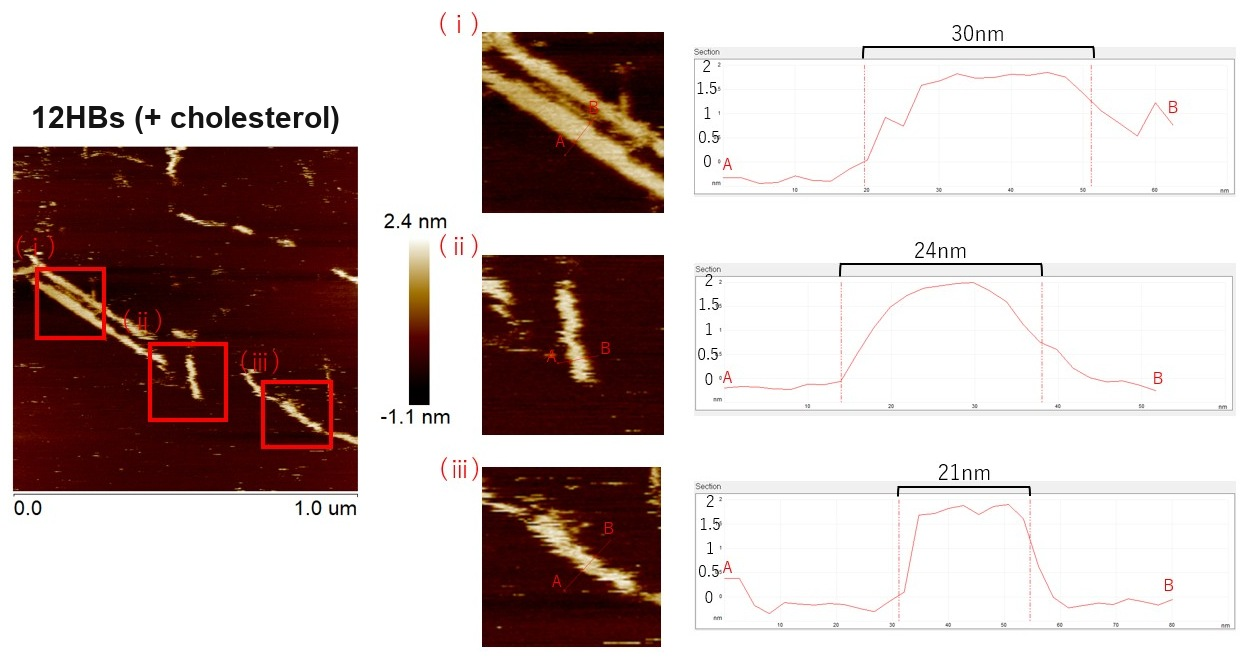
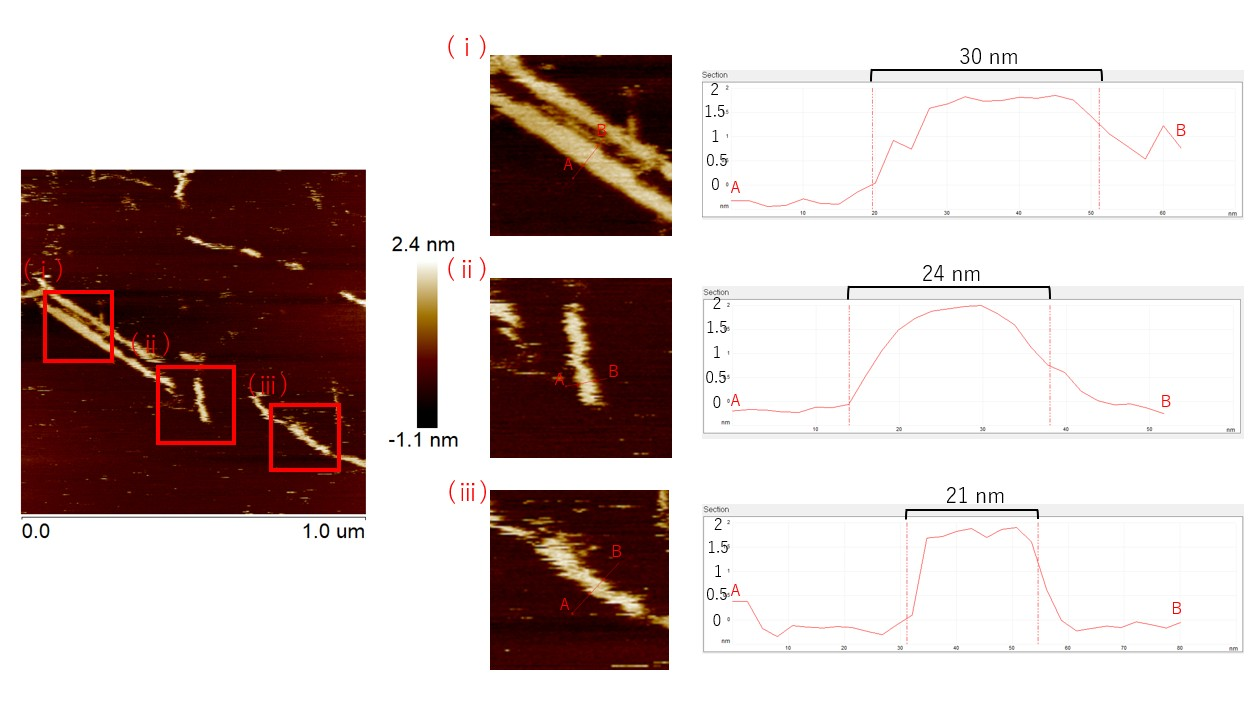
い

diff --git a/experiment.html b/experiment.html
@@ -381,22 +381,22 @@
                             </figure>
                             <div class="exp-flow-arrow exp-flow-arrow-down" aria-hidden="true"><svg viewBox="0 0 48 24" width="48" height="24"><path d="M2 12h37" fill="none" stroke="currentColor" stroke-width="3" stroke-linecap="round"/><path d="M33 4l11 8-11 8" fill="none" stroke="currentColor" stroke-width="3" stroke-linecap="round" stroke-linejoin="round"/></svg></div>
                             <figure id="fig-14" class="mb-0 exp-figure exp-afm-set">
-                                <img src="img/EXPERIMENT/afm_12hb_chol_profile.jpg?v=2" alt="AFM height images of cholesterol-modified 12-Helix DNA Bundles: overview, magnified views of regions (i)–(iii), and height profiles along A to B with measured widths"
+                                <img src="img/EXPERIMENT/afm_12hb_chol_profile.jpg?v=3" alt="AFM height images of cholesterol-modified 12-Helix DNA Bundles: overview, magnified views of regions (i)–(iii), and height profiles along A to B with measured widths"
                                     class="img-fluid w-100 border exp-afm-panel" loading="lazy" decoding="async">
                                 <figcaption class="text-secondary mt-3"><strong>Figure 14.</strong> AFM images of 12HBs (+ cholesterol). Left: overview; middle: magnified views of regions (i)–(iii); right: height profiles along A&rarr;B with the measured widths.</figcaption>
                             </figure>
                             <figure id="fig-15" class="mb-0 exp-figure exp-afm-set">
-                                <img src="img/EXPERIMENT/afm_12hb_nochol_profile.jpg?v=2" alt="AFM height images of unmodified 12-Helix DNA Bundles: overview, magnified views of regions (i)–(iii), and height profiles along A to B with measured widths"
+                                <img src="img/EXPERIMENT/afm_12hb_nochol_profile.jpg?v=3" alt="AFM height images of unmodified 12-Helix DNA Bundles: overview, magnified views of regions (i)–(iii), and height profiles along A to B with measured widths"
                                     class="img-fluid w-100 border exp-afm-panel" loading="lazy" decoding="async">
                                 <figcaption class="text-secondary mt-3"><strong>Figure 15.</strong> AFM images of 12HBs (− cholesterol). Left: overview; middle: magnified views of regions (i)–(iii); right: height profiles along A&rarr;B with the measured widths.</figcaption>
                             </figure>
                             <figure id="fig-16" class="mb-0 exp-figure exp-afm-set">
-                                <img src="img/EXPERIMENT/afm_13hb_chol_profile.jpg?v=2" alt="AFM height images of cholesterol-modified 13-Helix DNA Bundles: overview, magnified views of regions (i)–(iii), and height profiles along A to B with measured widths"
+                                <img src="img/EXPERIMENT/afm_13hb_chol_profile.jpg?v=3" alt="AFM height images of cholesterol-modified 13-Helix DNA Bundles: overview, magnified views of regions (i)–(iii), and height profiles along A to B with measured widths"
                                     class="img-fluid w-100 border exp-afm-panel" loading="lazy" decoding="async">
                                 <figcaption class="text-secondary mt-3"><strong>Figure 16.</strong> AFM images of 13HBs (+ cholesterol). Left: overview; middle: magnified views of regions (i)–(iii); right: height profiles along A&rarr;B with the measured widths.</figcaption>
                             </figure>
                             <figure id="fig-17" class="mb-0 exp-figure exp-afm-set">
-                                <img src="img/EXPERIMENT/afm_13hb_nochol_profile.jpg?v=2" alt="AFM height images of unmodified 13-Helix DNA Bundles: overview, magnified views of regions (i)–(iii), and height profiles along A to B with measured widths"
+                                <img src="img/EXPERIMENT/afm_13hb_nochol_profile.jpg?v=3" alt="AFM height images of unmodified 13-Helix DNA Bundles: overview, magnified views of regions (i)–(iii), and height profiles along A to B with measured widths"
                                     class="img-fluid w-100 border exp-afm-panel" loading="lazy" decoding="async">
                                 <figcaption class="text-secondary mt-3"><strong>Figure 17.</strong> AFM images of 13HBs (− cholesterol). Left: overview; middle: magnified views of regions (i)–(iii); right: height profiles along A&rarr;B with the measured widths.</figcaption>
                             </figure>
